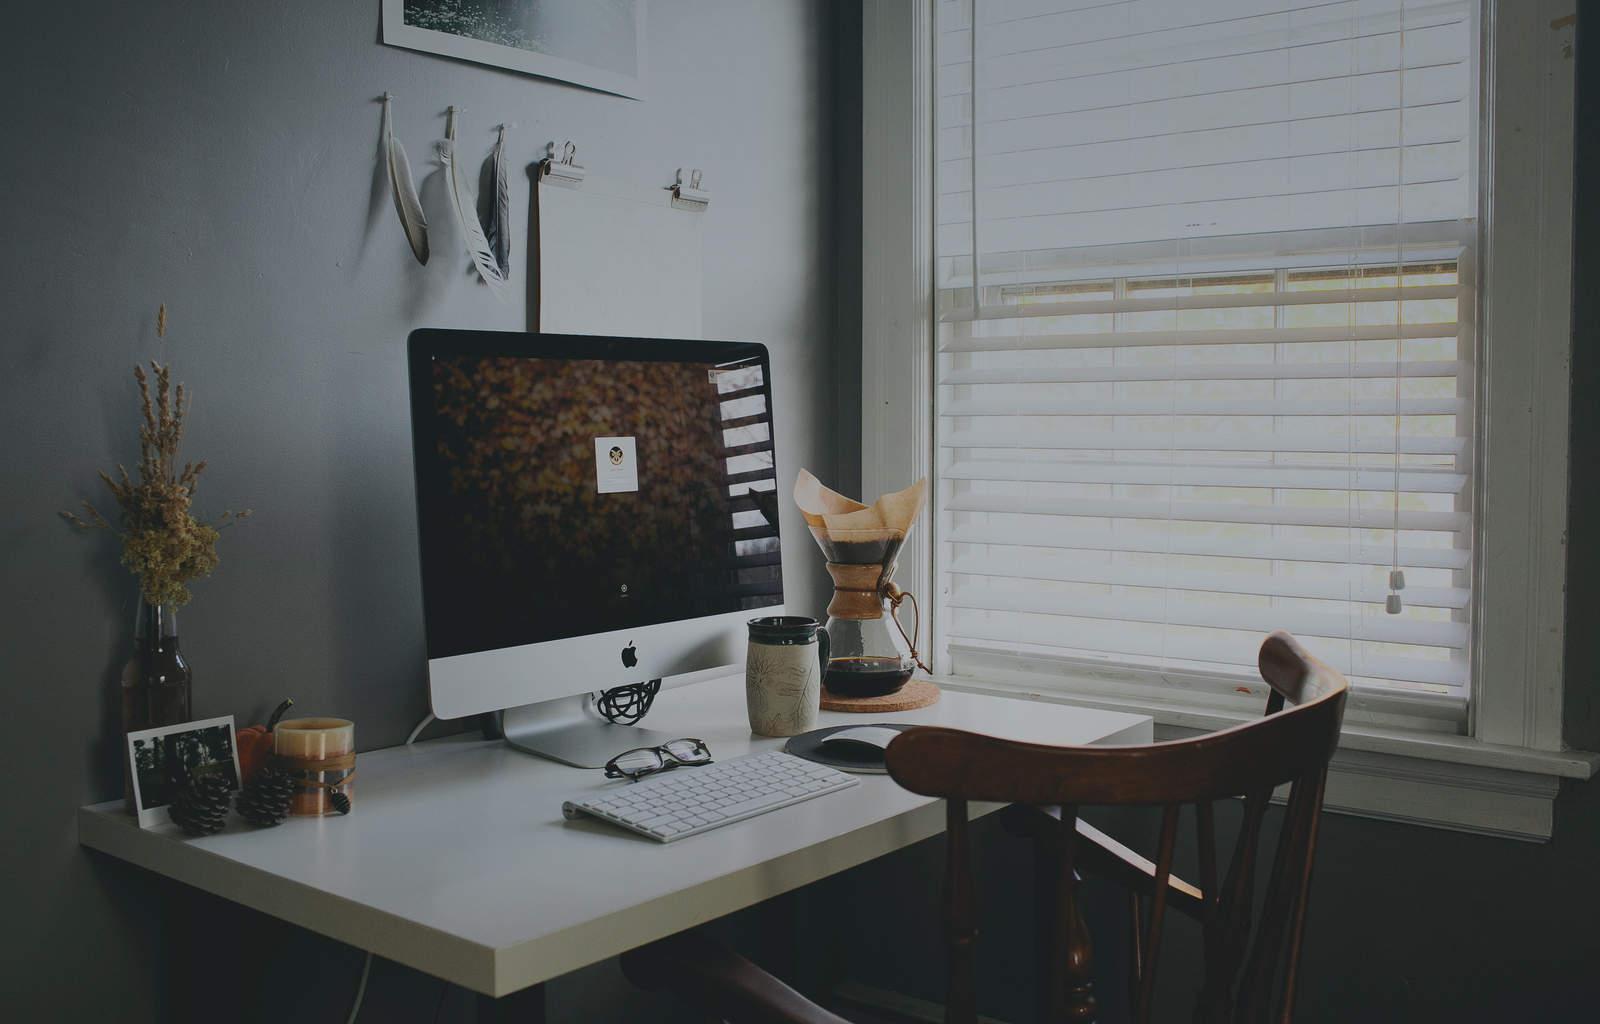
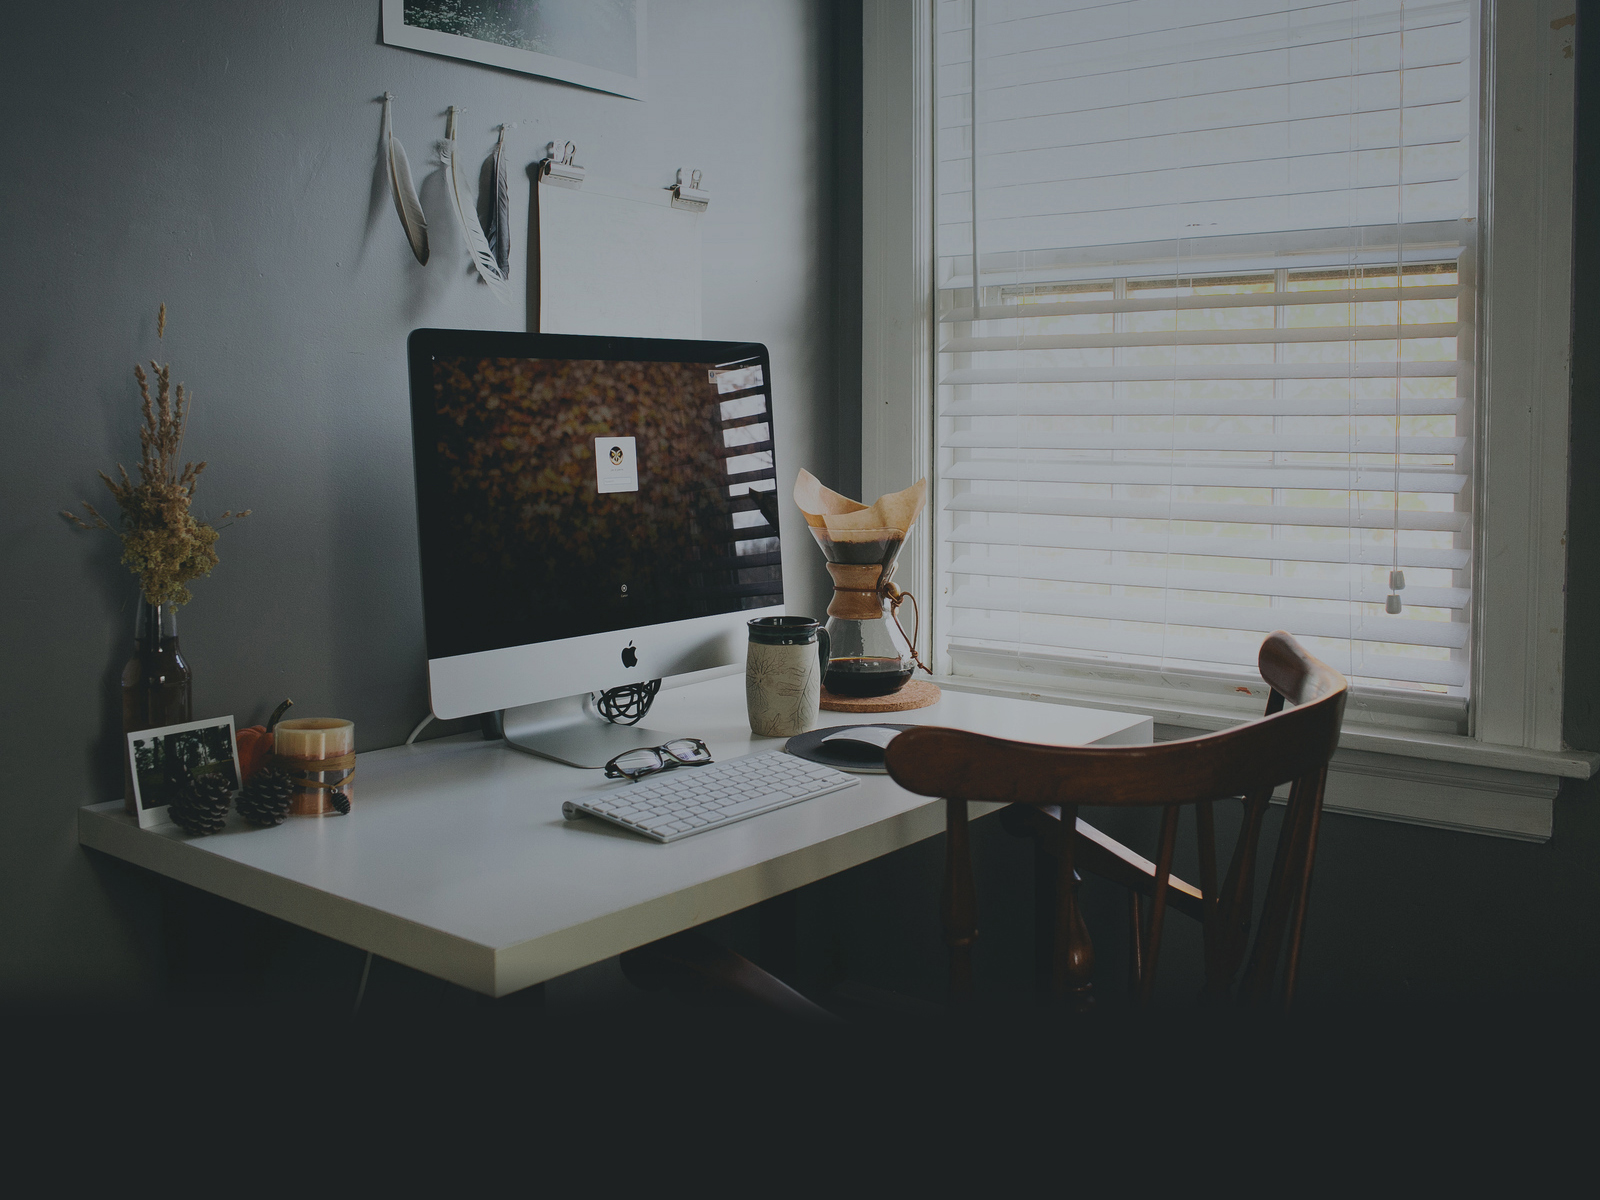
different fixes

diff --git a/assets/css/style.css b/assets/css/style.css
@@ -48,12 +48,13 @@ h1:before, footer:before, section:after {
 }
 header	{
     position: relative;
-	background: #2B2C2B url(../images/header-bg.jpg) center center no-repeat fixed;
+	background: #1d2122 url(../images/header-bg1.jpg) center center no-repeat fixed;
 	width: 100%;
     color: #fff;
     margin-bottom: 80px;
     overflow: hidden;
     background-size: 100%;
+	min-height: 600px;
 }
 nav {
     position: relative;
@@ -92,6 +93,7 @@ nav ul a:hover {
 #logo {
     float: left;
     font-style: italic;
+	font-size: 1.1em;
 }
 .btn-wrap{
     position: absolute;
@@ -103,7 +105,7 @@ nav ul a:hover {
     font-weight: bold;
     text-shadow: 0 1px 1px rgba(0, 0, 0, .15);
     color: #fff;
-    font-size: 1.5em;
+    font-size: 1.4em;
     margin: 0 auto;
     -moz-border-radius: 5px;
     -webkit-border-radius: 5px;
@@ -111,7 +113,7 @@ nav ul a:hover {
     -moz-background-clip: padding;
     -webkit-background-clip: padding-box;
     background-clip: padding-box;
-    padding: 15px 35px;
+    padding: 15px 30px;
     background-color: #425cc0;
     -moz-box-shadow: 0 2px 5px rgba(0, 17, 25, .25), inset 0 1px 0 rgba(255, 255, 255, .3);
     -webkit-box-shadow: 0 2px 5px rgba(0, 17, 25, .25), inset 0 1px 0 rgba(255, 255, 255, .3);
@@ -252,6 +254,18 @@ footer a:hover	{
     text-align: right;
 }
 @media screen and (max-width: 980px) {
+	header{
+        background-image: url(../images/header-bg-mob.jpg);
+        background-size: auto;
+        background-position: center top !important;
+    }
+    h1{
+        top: 30%;
+        font-size: 3.5em;
+    }
+	h2	{
+		font-size: 1em;
+	}
     nav{
         padding: 0 5%;
     }
@@ -264,13 +278,6 @@ footer a:hover	{
     }
 }
 @media only screen and (max-width : 767px) {
-    h1{
-        top: 30%;
-        font-size: 3em;
-    }
-	h2	{
-		font-size: 1em;
-	}
     section figure {
         width: 100%;
         margin: 40px auto;
@@ -309,7 +316,7 @@ footer a:hover	{
 @media only screen and (max-width : 480px) {
     #logo {
         float: none;
-        margin: 10px auto;
+        margin: 10px auto 25px;
         text-align: center;
     }
     nav {
@@ -317,6 +324,7 @@ footer a:hover	{
         width: 100%;
         padding: 0;
         top: 5%;
+		font-size: 1em;
     }
     nav ul {
         float: none;
@@ -325,11 +333,12 @@ footer a:hover	{
     }
     nav ul li {
         display: block;
-        margin: 10px 0;
+        margin: 20px 0;
     }
     h1{
-        top: 35%;
+        top: 40%;
     }
+
     .copyright span {
         display: block;
         margin: 0;
